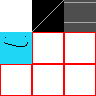
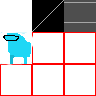
render entities

Changed region(s): [[0.0, 0.3125, 0.3438, 0.6875]]

diff --git a/src/game.cpp b/src/game.cpp
@@ -207,6 +207,10 @@ void Game::start_game()
     wait_for_z();
     
     delete_menu();
+
+    m_room_entities["start_1"] = {
+        new Entity(m_rend, { 17 * 32, 7 * 32 }, m_atlas, { 0, 32 })
+    };
     
     {
         std::lock_guard lock(m_mtx);
@@ -331,6 +335,12 @@ void Game::open_map(const std::string& map_name)
     {
         std::lock_guard lock(m_mtx);
         m_rooms.emplace_back(new Room(m_rend, ss.str(), map_width, m_texture_map, m_atlas, lpos, rpos));
+        std::string room_filename = fs::path(map_name).stem().string();
+
+        if (m_room_entities.find(room_filename) != m_room_entities.end())
+        {
+            m_rooms[m_rooms.size() - 1]->add_entities(m_room_entities[room_filename]);
+        }
     } 
 }
 

diff --git a/src/rooms/room.cpp b/src/rooms/room.cpp
@@ -48,6 +48,11 @@ void Room::move(int x, int y)
 {
     m_render_pos.x += x;
     m_render_pos.y += y;
+
+    for (auto& entity : m_entities)
+    {
+        entity->move(x, y);
+    }
 }
 
 
@@ -68,5 +73,14 @@ bool Room::moveable(int x, int y)
     }
 
     return false;
+}
+
+
+void Room::add_entities(std::vector<Entity*>& entities)
+{
+    for (auto& entity : entities)
+    {
+        m_entities.emplace_back(std::move(entity));
+    }
 }
 

diff --git a/src/game.h b/src/game.h
@@ -75,6 +75,8 @@ private:
     std::map<char, SDL_Point> m_texture_map;
     std::vector<char> m_solid_characters;
 
+    std::map<std::string, std::vector<Entity*>> m_room_entities;
+
     /* constants */
     const int m_player_speed{ 2 };
 };

diff --git a/src/rooms/room.h b/src/rooms/room.h
@@ -17,6 +17,8 @@ public:
 
     bool moveable(int x, int y);
 
+    void add_entities(std::vector<Entity*>& entities);
+
     std::string layout() { return m_layout; }
     int characters_per_line() { return m_characters_per_row; }
 

diff --git a/src/rooms/entity.cpp b/src/rooms/entity.cpp
@@ -11,3 +11,10 @@ void Entity::render()
     SDL_RenderCopy(m_rend, m_atlas, &m_atlas_rect, &m_rect);
 }
 
+
+void Entity::move(int x, int y)
+{
+    m_rect.x += x;
+    m_rect.y += y;
+}
+

diff --git a/src/rooms/entity.h b/src/rooms/entity.h
@@ -9,6 +9,8 @@ public:
 
     void render();
 
+    void move(int x, int y);
+
 private:
     SDL_Rect m_rect;
     SDL_Rect m_atlas_rect;
